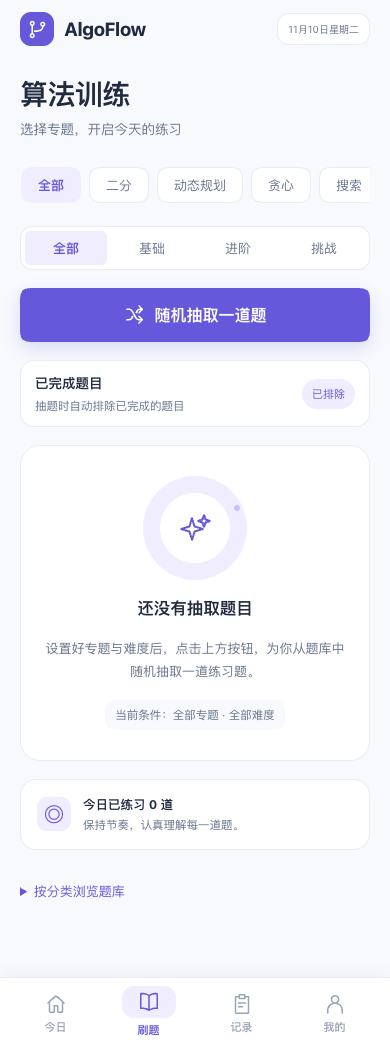
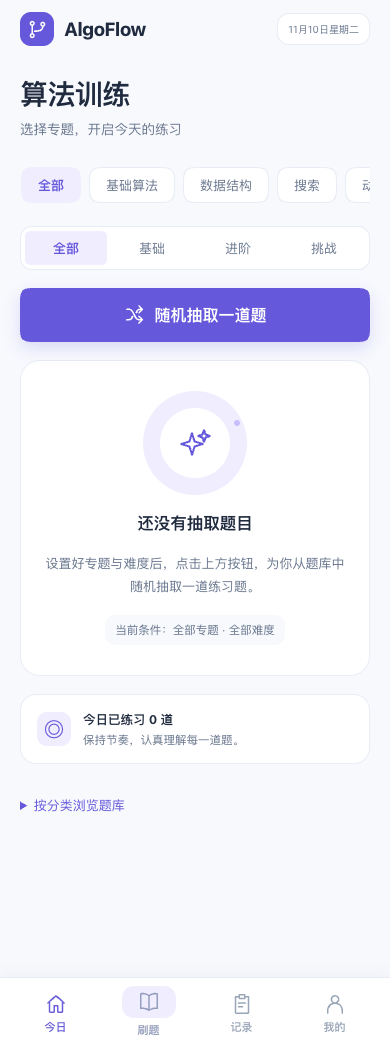
ui: unify recommendation cards and simplify topic navigation

diff --git a/src/pages/PracticePage.vue b/src/pages/PracticePage.vue
@@ -1,11 +1,20 @@
 <script setup>
-import { computed, ref } from 'vue'
-import TopicPicker from '../components/TopicPicker.vue'
-import { topicName, difficulties } from '../data/problems.js'
+import { computed } from 'vue'
+import { topicName, topics, topicGroups, difficulties } from '../data/problems.js'
 const props = defineProps({ topic: String, difficulty: String, problem: Object, attempted: Boolean, message: String, sessions: { type: Array, default: () => [] }, date: String })
 const emit = defineEmits(['update:topic', 'update:difficulty', 'draw', 'open'])
-const moreTopics = ref(false)
-const quickTopics = [{ id: '', name: '全部' }, { id: 'binary-search', name: '二分' }, { id: 'dp', name: '动态规划' }, { id: 'greedy', name: '贪心' }, { id: 'search', name: '搜索' }, { id: 'graph', name: '图论' }]
+const quickTopics = [{ id: '', name: '全部' }, ...topicGroups]
+const isSelected = id => topic.value === id || !!topics.find(t => t.id === props.topic)?.ancestorIds.includes(id)
+const topic = computed(() => props.topic)
+const topicLevels = computed(() => {
+  const levels = []
+  let node = topicGroups.find(n => n.id === props.topic || topics.find(t => t.id === props.topic)?.ancestorIds.includes(n.id))
+  while (node?.children?.length) {
+    levels.push({ id: node.id, name: node.name, children: node.children })
+    node = node.children.find(n => n.id === props.topic || topics.find(t => t.id === props.topic)?.ancestorIds.includes(n.id))
+  }
+  return levels
+})
 const todayCount = computed(() => new Set(props.sessions.filter(s => { const d = new Date(s.recordedAt); return `${d.getFullYear()}-${String(d.getMonth()+1).padStart(2,'0')}-${String(d.getDate()).padStart(2,'0')}` === props.date }).map(s => s.problemId)).size)
 const conditions = computed(() => `${props.topic ? topicName(props.topic) : '全部专题'} · ${props.difficulty || '全部难度'}`)
 </script>
@@ -14,13 +23,17 @@ const conditions = computed(() => `${props.topic ? topicName(props.topic) : '全
   <header class="training-heading"><h1 id="training-title">算法训练</h1><p>选择专题，开启今天的练习</p></header>
   <div class="training-controls">
     <div class="topic-chips" role="group" aria-label="专题筛选">
-      <button v-for="item in quickTopics" :key="item.id" :aria-pressed="topic === item.id" :class="{ selected: topic === item.id }" @click="emit('update:topic', item.id)">{{ item.name }}</button>
-      <button :aria-expanded="moreTopics" @click="moreTopics = !moreTopics">{{ topic && !quickTopics.some(t => t.id === topic) ? topicName(topic) : '更多专题' }}</button>
+      <button v-for="item in quickTopics" :key="item.id" :aria-pressed="isSelected(item.id)" :class="{ selected: isSelected(item.id) }" @click="emit('update:topic', item.id)">{{ item.name }}</button>
     </div>
-    <div v-if="moreTopics" class="more-topics"><TopicPicker :model-value="topic" label="专题" allow-all @update:model-value="value => { emit('update:topic', value); moreTopics = false }" /></div>
+    <div v-for="level in topicLevels" :key="level.id" class="subtopic-level">
+      <span class="subtopic-label">{{ level.name }}</span>
+      <div class="topic-chips" role="group" :aria-label="level.name + '子专题'">
+        <button :aria-pressed="topic === level.id" :class="{ selected: topic === level.id }" @click="emit('update:topic', level.id)">全部{{ level.name }}</button>
+        <button v-for="child in level.children" :key="child.id" :aria-pressed="isSelected(child.id)" :class="{ selected: isSelected(child.id) }" @click="emit('update:topic', child.id)">{{ child.name }}</button>
+      </div>
+    </div>
     <div class="difficulty-segment" role="group" aria-label="难度筛选"><button v-for="value in ['', ...difficulties]" :key="value" :aria-pressed="difficulty === value" :class="{ selected: difficulty === value }" @click="emit('update:difficulty', value)">{{ value || '全部' }}</button></div>
     <button class="draw-button" @click="emit('draw')"><svg viewBox="0 0 24 24" aria-hidden="true"><path d="M3 6h3c5 0 6 12 11 12h4m-4-4 4 4-4 4M3 18h3c2 0 3-2 4-4m4-4c1-2 2-4 4-4h3m-4-4 4 4-4 4" /></svg>随机抽取一道题</button>
-    <div class="completion-rule"><div><strong>已完成题目</strong><p>抽题时自动排除已完成的题目</p></div><span class="rule-tag">已排除</span></div>
   </div>
   <p v-if="message" class="training-notice" role="status">{{ message }}</p>
   <template v-if="problem">
@@ -45,5 +58,5 @@ const conditions = computed(() => `${props.topic ? topicName(props.topic) : '全
 </section>
 </template>
 <style scoped>
-.training-page{color:#202B3F;min-width:0;padding-top:30px}.training-heading{margin-bottom:24px}.training-heading h1{font-size:28px;line-height:1.3;font-weight:750;letter-spacing:-.6px}.training-heading p{font-size:13.5px;color:#68768D;margin:7px 0 0;line-height:1.6}.training-controls{display:grid;gap:18px}.topic-chips{display:flex;overflow-x:auto;gap:8px;padding:2px 1px 5px;scrollbar-width:thin}.topic-chips button{flex-shrink:0;min-height:36px;white-space:nowrap;padding:7px 16px;border:1px solid #E8ECF4;border-radius:24px;background:white;color:#68768D;font-size:13px}.topic-chips button.selected{background:#F0EDFF;border-color:#F0EDFF;color:#6658DB;font-weight:650}.difficulty-segment{display:grid;grid-template-columns:repeat(4,minmax(0,1fr));gap:4px;padding:4px;border:1px solid #E8ECF4;border-radius:12px;background:#fff}.difficulty-segment button{min-height:34px;border:0;border-radius:9px;background:transparent;color:#68768D;font-size:13px}.difficulty-segment button.selected{background:#F0EDFF;color:#6658DB;font-weight:650}.draw-button,.details-button,.redraw-button{width:100%;display:flex;justify-content:center;align-items:center;gap:10px;border:0;background:#6658DB;color:white;border-radius:16px;min-height:54px;font-size:16px;font-weight:650}.draw-button{box-shadow:0 6px 16px #6658db33}.draw-button svg{width:21px;height:21px;fill:none;stroke:currentColor;stroke-width:1.8;stroke-linecap:round;stroke-linejoin:round}.completion-rule{display:flex;justify-content:space-between;align-items:center;gap:12px;border:1px solid #E8ECF4;border-radius:14px;background:#fff;padding:12px 14px}.completion-rule strong{font-size:13.5px}.completion-rule p{font-size:11.5px;line-height:1.5;color:#68768D;margin:4px 0 0}.rule-tag{font-size:11px;white-space:nowrap;color:#6658DB;background:#F0EDFF;border-radius:20px;padding:7px 10px}.training-empty{margin-top:18px;min-height:300px;background:white;border:1px solid #E8ECF4;border-radius:20px;padding:30px 24px;display:flex;flex-direction:column;align-items:center;justify-content:center;gap:16px;text-align:center}.empty-orbit{width:104px;height:104px;flex-shrink:0;border:17px solid #F0EDFF;border-radius:50%;display:grid;place-items:center;position:relative}.empty-orbit:after{content:'';position:absolute;width:6px;height:6px;background:#C8BFFF;border-radius:50%;right:-10px;top:12px}.empty-orbit svg{width:32px;height:32px;fill:none;stroke:#6658DB;stroke-width:2;stroke-linecap:round;stroke-linejoin:round}.training-empty h2{font-size:16.5px;line-height:1.5;margin:0}.training-empty p{font-size:13px;line-height:1.8;color:#68768D;margin:0;max-width:380px}.current-conditions{font-size:11.5px;line-height:1.6;color:#68768D;border-radius:10px;background:#F7F9FD;padding:6px 10px;max-width:100%;overflow-wrap:anywhere}.study-tip{display:flex;align-items:center;gap:12px;border:1px solid #E8ECF4;border-radius:16px;background:white;padding:14px 16px;margin-top:18px}.tip-icon{display:grid;place-items:center;width:34px;height:34px;border-radius:10px;background:#F0EDFF;color:#6658DB;font-size:24px;flex-shrink:0}.study-tip strong{font-size:12.5px}.study-tip p{font-size:11.5px;color:#68768D;line-height:1.6;margin:3px 0 0}.result-heading{display:flex;justify-content:space-between;gap:12px;align-items:center;margin:18px 0 14px}.result-heading h2{font-size:13.5px;margin:0}.result-heading>span{color:#68768D;font-size:11.5px}.draw-result{border:1px solid #E8ECF4;background:#fff;border-radius:20px;box-shadow:0 6px 20px #202b3f16;padding:18px;display:grid;gap:14px}.result-meta{display:flex;justify-content:space-between;align-items:center;gap:10px;font-size:12px;color:#68768D}.result-meta>span:first-child{display:flex;align-items:center;flex-wrap:wrap;gap:7px}.platform-mark{font-size:10px;background:#202B3F;color:#fff;border-radius:4px;padding:4px}.result-meta small{font-size:11px;color:#8391A7}.difficulty-badge{background:#FDF3E1;color:#A66B12;font-size:11px;border-radius:6px;padding:4px 8px;white-space:nowrap}.draw-result h3{font-size:21px;line-height:1.45;margin:0;overflow-wrap:anywhere}.problem-focus{font-size:13px;color:#68768D;line-height:1.7;margin:0}.result-tags{display:flex;flex-wrap:wrap;gap:6px}.result-tags span{font-size:11px;line-height:1.5;background:#F7F9FD;color:#68768D;border-radius:12px;padding:4px 9px}.result-status{display:flex;justify-content:space-between;gap:8px;border-top:1px solid #E8ECF4;padding-top:14px;font-size:11.5px;color:#68768D}.result-status span:last-child{color:#6658DB}.details-button,.redraw-button{min-height:46px;font-size:13.5px;border-radius:14px}.redraw-button{background:#F0EDFF;color:#6658DB}.redraw-button span{font-size:18px}.training-notice{background:#FDF3E1;color:#946411;padding:12px 14px;border-radius:12px;font-size:12px;line-height:1.7}.training-library{margin-top:22px}.training-library>summary{font-size:13px;color:#6658DB;cursor:pointer;padding:10px 0;min-height:44px}.training-page :is(button,summary){scroll-margin-block:110px}.draw-result:focus-visible{outline:3px solid #9C8EED;outline-offset:3px}.training-page button:focus-visible{outline:3px solid #9C8EED;outline-offset:3px}@media(prefers-reduced-motion:reduce){.training-page *{scroll-behavior:auto}}@media(max-width:350px){.training-empty{padding:24px 16px}.topic-chips button{padding-inline:13px}}
+.training-controls>*{min-width:0}.subtopic-level{min-width:0}.subtopic-label{display:block;font-size:12px;color:#68768D;margin-bottom:8px}.training-page{color:#202B3F;min-width:0;padding-top:30px}.training-heading{margin-bottom:24px}.training-heading h1{font-size:28px;line-height:1.3;font-weight:750;letter-spacing:-.6px}.training-heading p{font-size:13.5px;color:#68768D;margin:7px 0 0;line-height:1.6}.training-controls{display:grid;gap:18px}.topic-chips{display:flex;overflow-x:auto;gap:8px;padding:2px 1px 5px;scrollbar-width:thin}.topic-chips button{flex-shrink:0;min-height:36px;white-space:nowrap;padding:7px 16px;border:1px solid #E8ECF4;border-radius:24px;background:white;color:#68768D;font-size:13px}.topic-chips button.selected{background:#F0EDFF;border-color:#F0EDFF;color:#6658DB;font-weight:650}.difficulty-segment{display:grid;grid-template-columns:repeat(4,minmax(0,1fr));gap:4px;padding:4px;border:1px solid #E8ECF4;border-radius:12px;background:#fff}.difficulty-segment button{min-height:34px;border:0;border-radius:9px;background:transparent;color:#68768D;font-size:13px}.difficulty-segment button.selected{background:#F0EDFF;color:#6658DB;font-weight:650}.draw-button,.details-button,.redraw-button{width:100%;display:flex;justify-content:center;align-items:center;gap:10px;border:0;background:#6658DB;color:white;border-radius:16px;min-height:54px;font-size:16px;font-weight:650}.draw-button{box-shadow:0 6px 16px #6658db33}.draw-button svg{width:21px;height:21px;fill:none;stroke:currentColor;stroke-width:1.8;stroke-linecap:round;stroke-linejoin:round}.training-empty{margin-top:18px;min-height:300px;background:white;border:1px solid #E8ECF4;border-radius:20px;padding:30px 24px;display:flex;flex-direction:column;align-items:center;justify-content:center;gap:16px;text-align:center}.empty-orbit{width:104px;height:104px;flex-shrink:0;border:17px solid #F0EDFF;border-radius:50%;display:grid;place-items:center;position:relative}.empty-orbit:after{content:'';position:absolute;width:6px;height:6px;background:#C8BFFF;border-radius:50%;right:-10px;top:12px}.empty-orbit svg{width:32px;height:32px;fill:none;stroke:#6658DB;stroke-width:2;stroke-linecap:round;stroke-linejoin:round}.training-empty h2{font-size:16.5px;line-height:1.5;margin:0}.training-empty p{font-size:13px;line-height:1.8;color:#68768D;margin:0;max-width:380px}.current-conditions{font-size:11.5px;line-height:1.6;color:#68768D;border-radius:10px;background:#F7F9FD;padding:6px 10px;max-width:100%;overflow-wrap:anywhere}.study-tip{display:flex;align-items:center;gap:12px;border:1px solid #E8ECF4;border-radius:16px;background:white;padding:14px 16px;margin-top:18px}.tip-icon{display:grid;place-items:center;width:34px;height:34px;border-radius:10px;background:#F0EDFF;color:#6658DB;font-size:24px;flex-shrink:0}.study-tip strong{font-size:12.5px}.study-tip p{font-size:11.5px;color:#68768D;line-height:1.6;margin:3px 0 0}.result-heading{display:flex;justify-content:space-between;gap:12px;align-items:center;margin:18px 0 14px}.result-heading h2{font-size:13.5px;margin:0}.result-heading>span{color:#68768D;font-size:11.5px}.draw-result{border:1px solid #E8ECF4;background:#fff;border-radius:20px;box-shadow:0 6px 20px #202b3f16;padding:18px;display:grid;gap:14px}.result-meta{display:flex;justify-content:space-between;align-items:center;gap:10px;font-size:12px;color:#68768D}.result-meta>span:first-child{display:flex;align-items:center;flex-wrap:wrap;gap:7px}.platform-mark{font-size:10px;background:#202B3F;color:#fff;border-radius:4px;padding:4px}.result-meta small{font-size:11px;color:#8391A7}.difficulty-badge{background:#FDF3E1;color:#A66B12;font-size:11px;border-radius:6px;padding:4px 8px;white-space:nowrap}.draw-result h3{font-size:21px;line-height:1.45;margin:0;overflow-wrap:anywhere}.problem-focus{font-size:13px;color:#68768D;line-height:1.7;margin:0}.result-tags{display:flex;flex-wrap:wrap;gap:6px}.result-tags span{font-size:11px;line-height:1.5;background:#F7F9FD;color:#68768D;border-radius:12px;padding:4px 9px}.result-status{display:flex;justify-content:space-between;gap:8px;border-top:1px solid #E8ECF4;padding-top:14px;font-size:11.5px;color:#68768D}.result-status span:last-child{color:#6658DB}.details-button,.redraw-button{min-height:46px;font-size:13.5px;border-radius:14px}.redraw-button{background:#F0EDFF;color:#6658DB}.redraw-button span{font-size:18px}.training-notice{background:#FDF3E1;color:#946411;padding:12px 14px;border-radius:12px;font-size:12px;line-height:1.7}.training-library{margin-top:22px}.training-library>summary{font-size:13px;color:#6658DB;cursor:pointer;padding:10px 0;min-height:44px}.training-page :is(button,summary){scroll-margin-block:110px}.draw-result:focus-visible{outline:3px solid #9C8EED;outline-offset:3px}.training-page button:focus-visible{outline:3px solid #9C8EED;outline-offset:3px}@media(prefers-reduced-motion:reduce){.training-page *{scroll-behavior:auto}}@media(max-width:350px){.training-empty{padding:24px 16px}.topic-chips button{padding-inline:13px}}
 </style>

diff --git a/src/App.vue b/src/App.vue
@@ -263,12 +263,11 @@ onUnmounted(() => { clearInterval(timer); window.removeEventListener('focus', re
       <TodayPage v-show="activeTab === 'today'">
       <section class="greeting today-welcome"><h1>今天，也来一道题。</h1><p class="intro">保持思考的节奏，积累算法能力。</p></section>
       <p v-if="warning" class="notice" role="alert">{{ warning }}</p>
-      <section class="daily-card clickable-card" aria-labelledby="daily-title" :tabindex="dailyProblem ? 0 : undefined" :role="dailyProblem ? 'link' : undefined" @click="showDetail(dailyProblem, 'daily', $event)" @keydown.enter.self.prevent="showDetail(dailyProblem, 'daily', $event)"><div class="card-top"><span class="label"><span class="small-dot"></span>今日推荐</span><span class="sample-tag">{{ isCompleted(dailyProblem) ? '已手动完成' : (training?.confirmed ? '已确定训练' : '随机推荐') }}</span></div>
-        <template v-if="dailyProblem"><div v-if="isCompleted(dailyProblem)" class="daily-congrats" role="status"><strong>✦ 今日挑战已完成，真棒！</strong><span>每一次认真思考，都在让你更进一步。</span></div><div class="topic-line">{{ dailyProblem.platform }} · {{ dailyProblem.externalId }}</div><h2 id="daily-title">{{ dailyProblem.title }}</h2><p class="daily-description">{{ dailyProblem.focus }}</p><div class="tags"><span v-for="id in dailyProblem.leafTopicIds" :key="id">{{ topicName(id) }}</span><span>{{ dailyProblem.difficulty }}</span></div><button class="primary-button" @click.stop="showDetail(dailyProblem, 'daily', $event)">开始今日训练 </button><p class="card-footnote">{{ date }} · 刷新保留 · 确定训练可更换题目</p></template>
+      <section class="daily-card today-result clickable-card" aria-labelledby="daily-title" :tabindex="dailyProblem ? 0 : undefined" :role="dailyProblem ? 'link' : undefined" @click="showDetail(dailyProblem, 'daily', $event)" @keydown.enter.self.prevent="showDetail(dailyProblem, 'daily', $event)"><div class="card-top"><span class="label"><span class="small-dot"></span>今日推荐</span><span v-if="isCompleted(dailyProblem)" class="today-completed" role="status" aria-label="今日训练已完成">✅ 已完成</span><span v-else class="sample-tag">{{ training?.confirmed ? '已确定训练' : '随机推荐' }}</span></div>
+        <template v-if="dailyProblem"><div v-if="isCompleted(dailyProblem)" class="daily-congrats" role="status"><strong>✦ 今日挑战已完成，真棒！</strong><span>每一次认真思考，都在让你更进一步。</span></div><div class="today-result-meta"><span><span class="today-platform-mark">{{ dailyProblem.platform === '洛谷' ? 'LG' : 'OJ' }}</span>{{ dailyProblem.platform }} <small>{{ dailyProblem.externalId }}</small></span><span class="today-difficulty">{{ dailyProblem.difficulty }}</span></div><h2 id="daily-title">{{ dailyProblem.title }}</h2><p class="daily-description">{{ dailyProblem.focus }}</p><div class="tags"><span v-for="id in dailyProblem.leafTopicIds" :key="id">{{ topicName(id) }}</span></div><div class="today-result-status"><span>{{ training?.confirmed ? '按确认的专题与难度推荐' : '全部专题随机推荐' }}</span><span>{{ isCompleted(dailyProblem) ? '已完成' : '未完成' }}</span></div><button class="primary-button" @click.stop="showDetail(dailyProblem, 'daily', $event)">开始今日训练 </button><p class="card-footnote">{{ date }} · 刷新保留 · 确定训练可更换题目</p></template>
         <template v-else><h2 id="daily-title">当前没有可推荐的新题</h2><p class="daily-description">当前训练范围内没有未完成题目。已保留你的专题设置，请切换专题或难度，或前往刷题页练习。</p></template>
       </section>
       <section class="today-overview"><div class="overview-heading"><h2>学习概览</h2><span>真实训练档案</span></div><div class="overview-grid"><article><span class="overview-symbol" aria-hidden="true">✓</span><strong>{{ todayOverview.practiced }}<small>题</small></strong><p>累计已练题目</p><span>同题多次训练只计一次</span></article><article><span class="overview-symbol" aria-hidden="true">◎</span><strong>{{ todayOverview.independent }}<small>题</small></strong><p>独立 AC 题目</p><span>仅统计独立完成的自报结果</span></article></div></section>
-      <button class="archive-entry" @click="switchTab('review')"><span class="archive-symbol" aria-hidden="true">▤</span><span><strong>我的训练档案</strong><small>回顾练过的题目和训练结果</small></span><span aria-hidden="true">›</span></button>
       <details class="settings-card"><summary>调整学习专题与难度</summary><div class="filter-grid"><TopicPicker v-model="draftSettings.topicId" label="学习专题" /><SmoothSelect v-model="draftSettings.difficulty" label="学习难度" :options="difficulties" /></div><button class="primary-button" @click="confirmTraining">确定训练 </button><p v-if="trainingMessage" role="status">{{ trainingMessage }}</p><p>确认后每天持续按所选专题与难度推荐，直到你主动切换。未确认时默认随机推荐。</p></details>
       </TodayPage>
       <PracticePage v-show="activeTab === 'practice'" :topic="randomTopic" :difficulty="randomDifficulty" :problem="randomProblem" :attempted="randomAttempted" :message="randomRestoreMessage" :sessions="state.sessions ?? []" :date="date" @update:topic="value => { randomTopic = value; resetRandomResult() }" @update:difficulty="value => { randomDifficulty = value; resetRandomResult() }" @draw="randomDraw" @open="problem => showDetail(problem, 'random')">
@@ -279,3 +278,11 @@ onUnmounted(() => { clearInterval(timer); window.removeEventListener('focus', re
     </main>
   </div></AppShell>
 </template>
+
+<style scoped>
+.daily-card.today-result{padding:18px;display:grid;gap:14px;border:1px solid #E8ECF4;border-radius:20px;background:#fff;box-shadow:0 6px 20px #202b3f16;color:#202B3F}
+.today-result .card-top{margin:0;padding:0;background:transparent;border:0;min-height:0;font-size:12px;gap:12px}.today-result .card-top .label{font-size:12px;color:#6658DB;gap:7px}.today-result .small-dot{width:5px;height:5px}.today-result .sample-tag{padding:0;border:0;background:transparent;color:#68768D;font-size:11.5px}
+.today-completed{display:inline-flex;align-items:center;gap:5px;padding:5px 9px;border-radius:12px;background:#DCF7E5;color:#23834B;font-size:12px;font-weight:650;white-space:nowrap}.today-result-meta{display:flex;justify-content:space-between;align-items:center;gap:10px;font-size:12px;color:#68768D}.today-result-meta>span:first-child{display:flex;align-items:center;flex-wrap:wrap;gap:7px}.today-platform-mark{font-size:10px;background:#202B3F;color:white;border-radius:4px;padding:4px}.today-result-meta small{font-size:11px;color:#8391A7}.today-difficulty{background:#FDF3E1;color:#A66B12;font-size:11px;border-radius:6px;padding:4px 8px;white-space:nowrap}
+.today-result h2{font-size:21px;line-height:1.45;margin:0;overflow-wrap:anywhere}.today-result .daily-description{font-size:13px;color:#68768D;line-height:1.7;margin:0}.today-result .tags{margin:0;gap:6px}.today-result .tags span{font-size:11px;line-height:1.5;background:#F7F9FD;color:#68768D;border:0;border-radius:12px;padding:4px 9px}
+.today-result-status{display:flex;justify-content:space-between;gap:8px;border-top:1px solid #E8ECF4;padding-top:14px;font-size:11.5px;color:#68768D}.today-result-status span:last-child{color:#6658DB}.today-result .primary-button{width:100%;margin:0;min-height:46px;padding:12px;border:0;border-radius:14px;background:#6658DB;box-shadow:none;font-size:13.5px;line-height:1.6;justify-content:center;text-align:center}.today-result .card-footnote{margin:0;padding:0;font-size:11px;line-height:1.7;color:#8391A7}.today-result .daily-congrats{margin:0}
+</style>

diff --git a/README.md b/README.md
@@ -15,7 +15,7 @@ AlgoFlow 把选题、练习、记录和回顾放在同一个学习空间中：
 
 ## 截图
 
-以下展示当前浅色 UI 2.0。今日、记录和我的截图由项目作者提供；新版刷题截图来自隔离浏览器，不含用户训练档案。图中的题目、训练结果和统计对应截图时的状态，并非固定内容或题库上限。
+以下展示当前浅色 UI 2.0。记录和我的截图由项目作者提供；今日与新版刷题截图来自隔离浏览器，不含用户训练档案。图中的题目、训练结果和统计对应截图时的状态，并非固定内容或题库上限。
 
 <table>
   <tr>
@@ -23,12 +23,12 @@ AlgoFlow 把选题、练习、记录和回顾放在同一个学习空间中：
     <th width="50%">刷题 · 随机抽题与专题题库</th>
   </tr>
   <tr>
-    <td><a href="docs/screens/today.png"><img src="docs/screens/today.png" width="100%" alt="今日页面：A-B 数对推荐卡片、开始今日训练按钮、累计已练与独立 AC 概览、训练档案入口" /></a></td>
+    <td><a href="docs/screens/today.png"><img src="docs/screens/today.png" width="100%" alt="今日页面：统一的题目推荐卡片、开始今日训练按钮与真实学习概览" /></a></td>
     <td><a href="docs/screens/practice-default.png"><img src="docs/screens/practice-default.png" width="100%" alt="新版刷题页面：横向专题标签、分段难度筛选、排除已完成说明、未抽题空状态" /></a></td>
   </tr>
   <tr>
-    <td>查看推荐题目的来源、专题和难度，一键进入训练；下方展示真实学习概览，并提供训练档案入口。</td>
-    <td>使用横向标签和分段难度快速筛选；更多专题保留分级选择，页面下方可展开分类题库。</td>
+    <td>查看推荐题目的来源、专题和难度，一键进入训练；下方展示真实学习概览，训练档案统一从底部「记录」查看。</td>
+    <td>顶部列出全部算法大类，点击后逐级展示子专题；配合分段难度快速筛选，页面下方可展开分类题库。</td>
   </tr>
   <tr>
     <th>记录 · 每次尝试都留下痕迹</th>
@@ -59,7 +59,8 @@ AlgoFlow 把选题、练习、记录和回顾放在同一个学习空间中：
 
 ### 今日与每日推荐
 
-- 展示今日题目、专题、难度、来源和训练方向，进入详情后可打开原题。
+- 今日推荐与刷题结果统一使用白色圆角题目卡片，展示专题、难度、来源和训练方向，进入详情后可打开原题。
+- 今日题目完成并保存 AC 后，卡片右上角自动显示绿色「✅ 已完成」，刷新后保留。
 - 未确认专题时默认随机推荐；选择专题和难度后点击「确定训练」，立即更新当前训练题目。
 - 确认后持续保留专题与难度，第二天从同一范围的未完成题目中重新推荐，直到主动切换。
 - 当天普通刷新不换题；再次确定训练可主动更新范围和题目。
@@ -71,7 +72,7 @@ AlgoFlow 把选题、练习、记录和回顾放在同一个学习空间中：
 
 - 按大类、子专题逐级浏览题库，也可以按名称或题号搜索，并筛选难度和来源。
 - 刷题页面按 Pixso 新稿更新为专题标签、分段难度、未抽题空状态和结果卡片，沿用已发布版本的自适应宽度与底部导航。
-- 随机模式支持专题和难度过滤，排除已完成题；多候选时避免连续抽中同一道。完成题状态以说明展示，暂不提供纳入已完成题的开关。
+- 随机模式支持专题和难度过滤，排除已完成题；多候选时避免连续抽中同一道。自动排除规则在后台生效，页面不再显示额外说明框或重复的档案入口。
 - 候选不足时明确提示，不无限重抽、不擅自放宽条件。
 - 随机筛选和结果通过浏览器历史快照恢复；恢复时检查题目是否存在、匹配筛选且尚未完成。
 - 题库已扩充洛谷、LeetCode 的题目元信息和原题链接，并检查每个末级专题至少覆盖五道不同题目；数量可持续扩充，没有固定上限。
